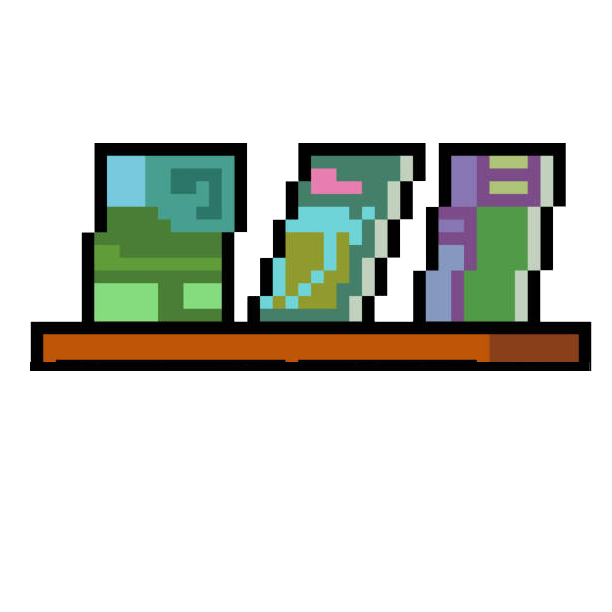
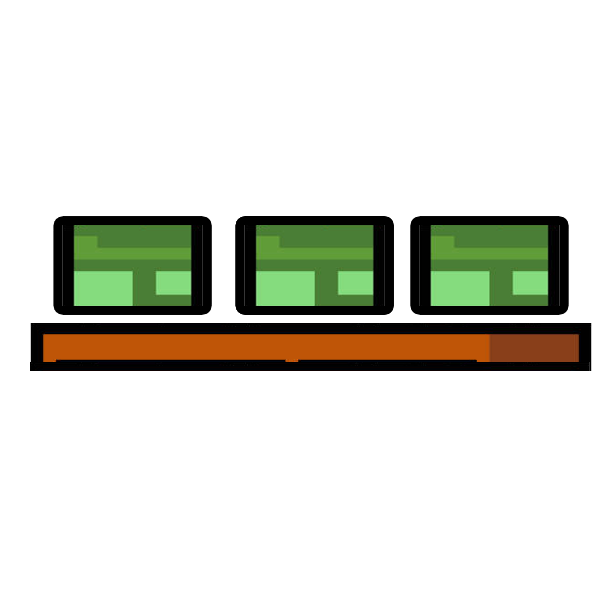
v2 - exit add

Changed region(s): [[0.0621, 0.2173, 0.9624, 0.5278]]

diff --git a/js/login.js b/js/login.js
@@ -75,7 +75,7 @@ document.addEventListener('DOMContentLoaded', ()=>{
   }
 
   setTimeout(result, 100*1)
-  setTimeout(login, 1000*3)
+  setTimeout(login, 1000*4)
 
   
 //Pictures
@@ -98,6 +98,7 @@ document.addEventListener('DOMContentLoaded', ()=>{
     const db = getDatabase();
     const imageRef = ref(db, 'user/' + localStorage.getItem('uid') + '/images')
     const pushImage = push(imageRef)
+    document.getElementById('image-area').innerHTML = ''
     set(pushImage, {
       file: localStorage.getItem('image'),
     });
@@ -108,25 +109,27 @@ document.addEventListener('DOMContentLoaded', ()=>{
 
   })
 
-  const db = getDatabase();
-
-  const imageRef = ref(db, 'user/' + localStorage.getItem('uid') + '/images')
-  onValue(imageRef, (snapshot) => {
-    const data = snapshot.val();
-    snapshot.forEach((childSnapshot)=>{
-      const key = childSnapshot.key
-      const data = childSnapshot.val()
-      const imageArea = document.getElementById('image-area')
-      const li = document.createElement('li')
-      const liId = document.createAttribute('id')
-      liId.value = 'li-image'
-      li.setAttributeNode(liId)
-      imageArea.appendChild(li)
-      const img = document.createElement('img')
-      img.src = data.file
-      li.appendChild(img)
+  function addImage(){
+    const db = getDatabase();
+    const imageRef = ref(db, 'user/' + localStorage.getItem('uid') + '/images')
+    onValue(imageRef, (snapshot) => {
+      const data = snapshot.val();
+      snapshot.forEach((childSnapshot)=>{
+        const key = childSnapshot.key
+        const data = childSnapshot.val()
+        const imageArea = document.getElementById('image-area')
+        const li = document.createElement('li')
+        const liId = document.createAttribute('id')
+        liId.value = 'li-image'
+        li.setAttributeNode(liId)
+        imageArea.appendChild(li)
+        const img = document.createElement('img')
+        img.src = data.file
+        li.appendChild(img)
+      });
     });
-  });
+  }
+  setTimeout(addImage, 1000*4)
 
   document.getElementById('return-btn').addEventListener('click', ()=>{
 

diff --git a/style/main.css b/style/main.css
@@ -42,6 +42,20 @@ body{
     background-size: 50px;
 }
 
+.bedroom-door{
+    position: absolute;
+    width: 80px;
+    height: 80px;
+    z-index: 10;
+    background-image: url(./../texture/doorlight.png);
+    background-position: center;
+    background-repeat: no-repeat;
+    background-size: cover;
+    transform: translate(370px, 400px);
+    filter: blur(10px);
+    opacity: .4;
+}
+
 .light-bedroom{
     position: absolute;
     width: 150px;
@@ -123,6 +137,8 @@ body{
     border-width: 3px;
     border-color: rgb(243, 136, 74);
     height: 80px;
+    -webkit-box-shadow: 5px 5px 15px 5px rgba(0,0,0,0.21); 
+    box-shadow: 5px 5px 15px 5px rgba(0,0,0,0.21);
 }
 
 .pictures{
@@ -234,4 +250,30 @@ body{
         overflow: hidden;
         opacity: .8;
         color: white;
+    }
+
+/* Exit */
+    .exit{
+        display: none;
+        position: absolute;
+        width: 300px;
+        height: 200px;
+        background-color: rgb(27, 27, 27);
+        border-radius: 8pt;
+        transform: translate(80px, 100px);
+        z-index: 11;
+    }
+
+    .exit h2{
+        margin: 1.5rem;
+        font-size: 15pt;
+        color: #ffffffff;
+    }
+
+    .exit button{
+        width: 100px;
+        height: 30px;
+        border-radius: 8pt;
+        border-style: solid;
+        margin: 4px;
     }

diff --git a/js/player.js b/js/player.js
@@ -66,7 +66,11 @@ document.addEventListener('DOMContentLoaded', ()=>{
                 person.style.left = '0px'
             }
         
-
+    //Interact Objects
+            //exit bedroom
+            if(positionX >= 360 && positionX <= 412 && positionY == 350){
+                document.getElementById('exit').style.display = 'block'
+            }
 
     })
     
@@ -89,6 +93,18 @@ document.addEventListener('DOMContentLoaded', ()=>{
         if(time <= 5 && time >=0 || time <= 23 && time >= 18 ){
             bedroomWindow.style.backgroundImage = 'url(./../bedroom-scenery/window-night.png)'
         }
+
+        //door exit
+        document.getElementById('cancel-btn').addEventListener('click', ()=>{
+            document.getElementById('exit').style.display = 'none'
+
+        })
+
+        document.getElementById('exit-btn').addEventListener('click', ()=>{
+            localStorage.clear()
+            location.reload()
+
+        })
 
 })
 

diff --git a/index.html b/index.html
@@ -20,12 +20,20 @@
             <div class="return-btn" id="return-btn"></div>
         </div>
         <!-------------->
+        <!-- Exit -->
+        <div class="exit" id="exit">
+            <center><h2>Deseja sair do seu quarto virtual?</h2></center>
+            <center><button id="exit-btn">Sair</button></center>
+            <center><button id="cancel-btn">Cancelar</button></center>
+        </div>
+        <!---------->
         <div class="light-bedroom"></div>
         <div class="picture-shelf" id="picture-shelf"></div>
         <div class="computer-table"></div>
         <div class="wall">
             <center><div class="window" id="bedroom-window"></div></center>
         </div>
+        <div class="bedroom-door"></div>
         <div class="floor" id="floor">
             <div class="personMan" id="person"></div>
         </div>
